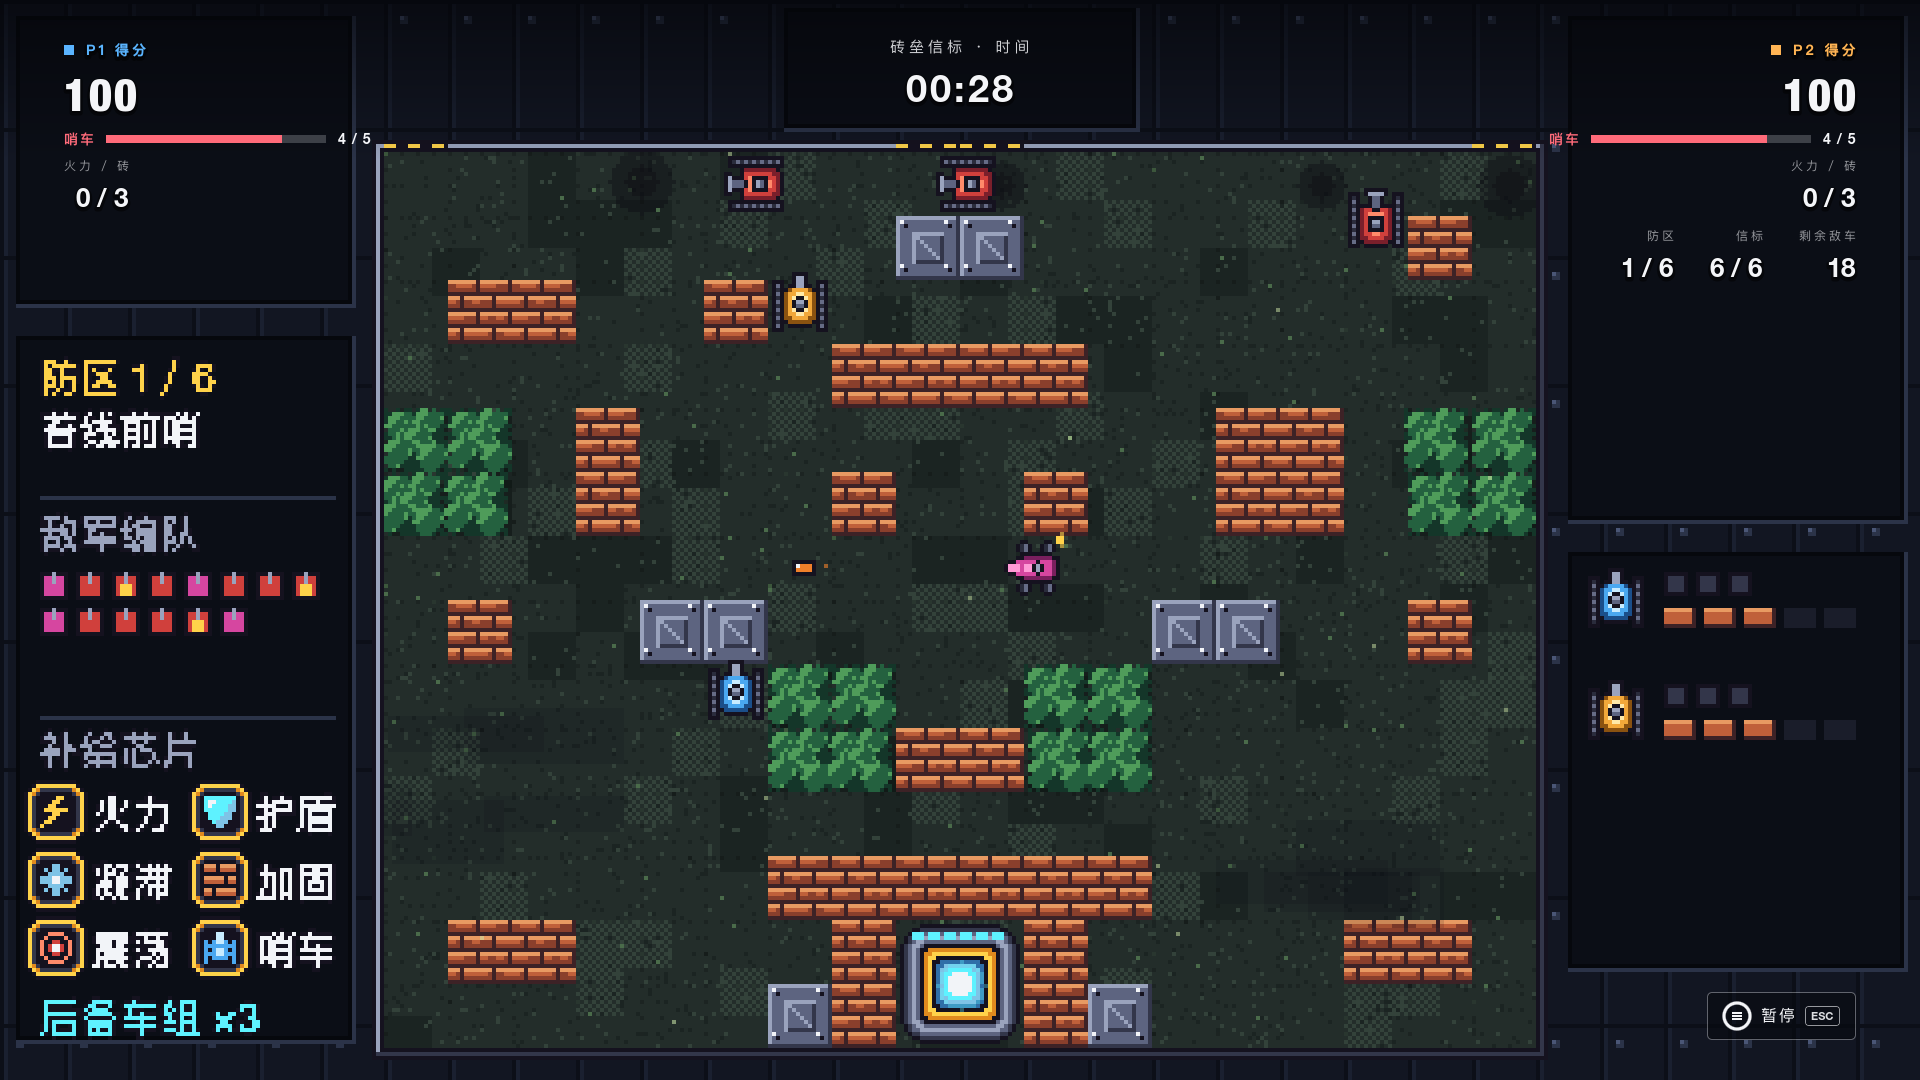
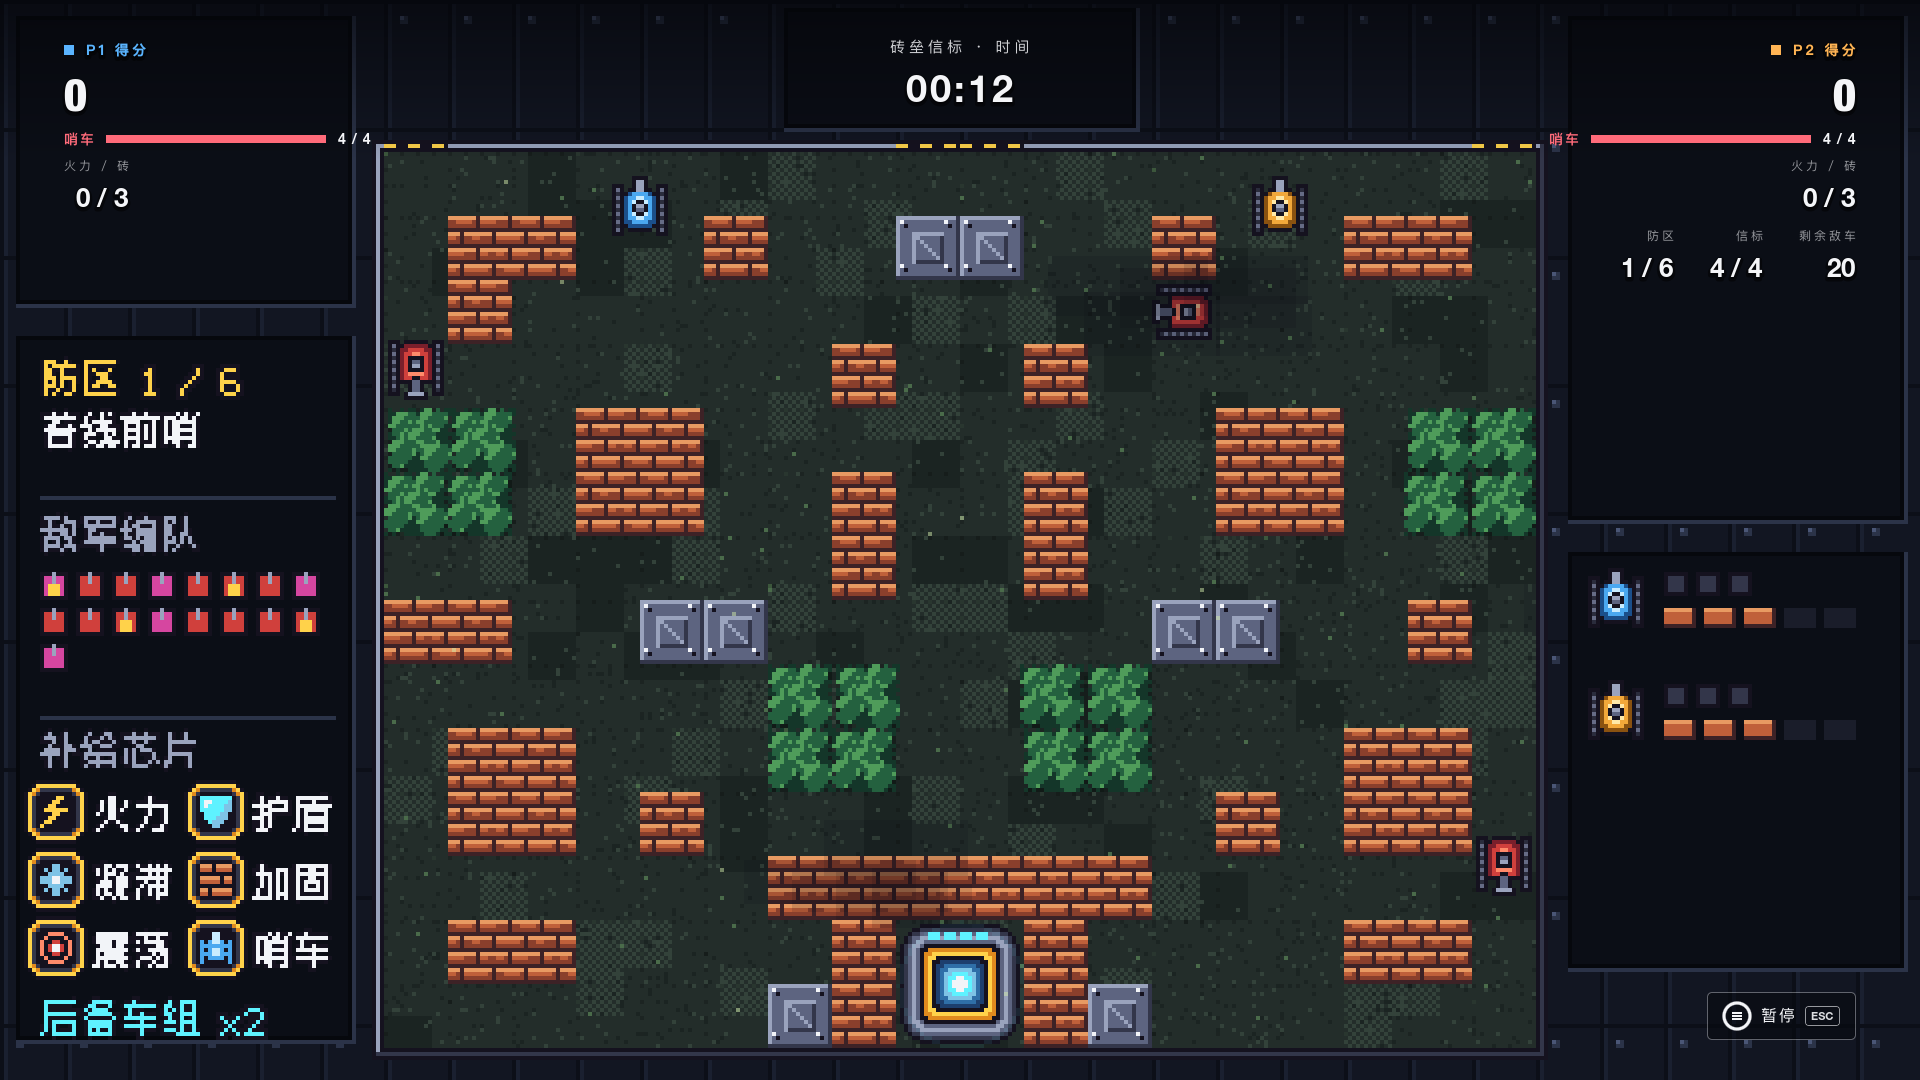
fix(games): give Brick Bastion pixel lettering, a boss checkpoint for reserve crews and a fourth rover on Normal
Latin letters and digits on the 480x270 stage came out soft (English) or broken (digits beside Chinese) through the system font, and two English panel lines ran past their well; they are now drawn from a 5x7 glyph table authored in glyphs.gd, with Chinese still on the system font.

A sector lost after its boss was called is taken up by the reserve crew at the boss instead of at the head of the column, and Normal starts with four rovers instead of three: the test pilot never cleared Normal with one player before, mostly falling to a boss and then to the repeated column.

A boss's fall now marks raider shells dead instead of removing them from the list the shell step is walking. The site screenshot is retaken with the new lettering.

diff --git a/apps/client/games/brick_bastion/ASSETS.md b/apps/client/games/brick_bastion/ASSETS.md
@@ -7,4 +7,4 @@ Every file in this directory that is not code or the manifest, with where it cam
 | `key_art.jpg` | 16:9 key art (1920x1080) shown by the launcher and the website | Generated for this project with the image model `doubao-seedream-5.0-pro` from a prompt written for it; an original composition that depicts no character or artwork of any existing game | Distributed with the project under Apache-2.0. AI-generated images may not be protected by copyright in some jurisdictions; judge for yourself before reusing it |
 | `site_screenshot.png` | A 1920x1080 capture of this game being played in the launcher, shown on the website. It is not shipped in the game: the export presets exclude it | Captured from this project's own launcher with `scripts/run-launcher-shot.sh` | Apache-2.0, with the project |
 
-Everything else the game shows or plays is code. The pixel art (rovers, raiders, both bosses, the beacon, supply chips, tiles, ground, panels) is written in `sprites.gd` as rows of palette letters and small painting rules and in `render.gd`, drawn for this project; particles and weather are drawn by `fx.gd`. Every sound effect and the three tunes are synthesised at run time by `games/shared/game_audio.gd` from the specifications in `sounds.gd`, which were composed for this project. There are no audio files and no fonts: text uses the system font.
+Everything else the game shows or plays is code. The pixel art (rovers, raiders, both bosses, the beacon, supply chips, tiles, ground, panels) is written in `sprites.gd` as rows of palette letters and small painting rules and in `render.gd`, drawn for this project; the pixel lettering (Latin capitals, digits and punctuation, 5x7) is written the same way in `glyphs.gd`, also drawn for this project; particles and weather are drawn by `fx.gd`. Every sound effect and the three tunes are synthesised at run time by `games/shared/game_audio.gd` from the specifications in `sounds.gd`, which were composed for this project. There are no audio files and no font files: Chinese text uses the system font, everything else the lettering in `glyphs.gd`.
